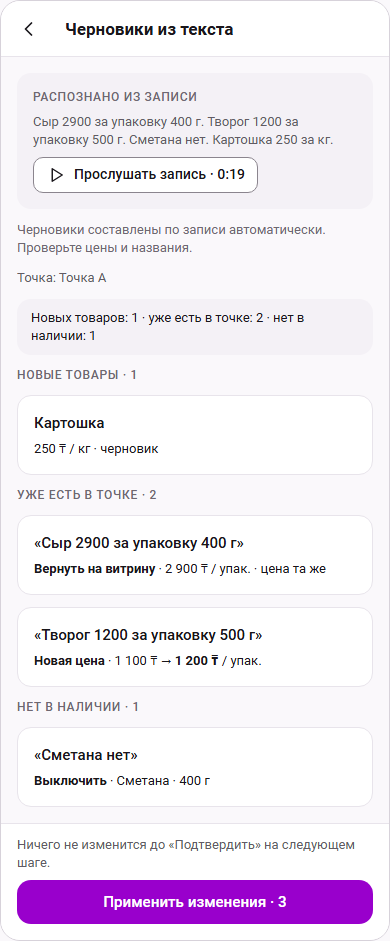
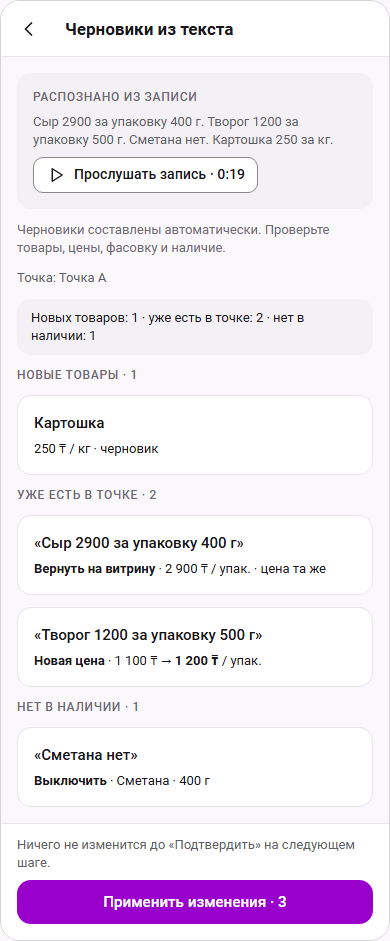
docs(seller-voice-input): PO reminder wording; CI failure kept unexplained
The draft review reminder for voice uses the PO wording (D-11). The voice
straight-to-drafts direction is confirmed by the PO; the contract is not
approved. The earlier push verify failure stays unexplained until its cause
is investigated. G-0 continues with layer A only; layer B awaits a separate
decision.

Changed region(s): [[0.0308, 0.2157, 0.8308, 0.2774]]

diff --git a/docs/slices/seller-voice-input/preview.html b/docs/slices/seller-voice-input/preview.html
@@ -499,4 +499,4 @@
 .kaida .offer-text-actions{display:flex;flex-wrap:wrap;align-items:center;column-gap:20px;row-gap:4px}
 .kaida .offer-text-action{min-width:44px;max-width:100%;flex:0 1 auto;text-decoration:none;color:var(--ink2)}
 .kaida .offer-text-action>span{min-width:0;overflow-wrap:anywhere}
-body{margin:0;padding:16px;background:#e9e5ec;font-family:Roboto,system-ui,sans-serif}.g{display:flex;gap:24px;flex-wrap:wrap;align-items:flex-start;margin-bottom:32px}.cap{font:500 14px/20px system-ui;margin:0 0 8px;max-width:420px}.kaida.kaida-app>.ph{height:auto}.kaida .body{overflow:visible}.kaida .body{min-height:0}</style><body><p class="cap"><b>DRAFT previews, rev. 3, not approved.</b> Голос сразу к черновикам. Статичные кадры, вымышленные данные, стили продавца из кода, без кода продукта. Mobile RU. Не доказательство работы. Контракт: SLICE_CONTRACT.md §4, §13, §14.</p><h2 class="cap" id="1-source">1-source: Выбор способа при включённом голосе: «Надиктовать товары» активна (узкая правка закрытого представления, §6). При <code>off</code> — прежний экран.</h2><div class="g"><div class="kaida kaida-app"><div class="ph" style="width:390px;height:auto;min-height:640px;max-width:none;margin:0;border:1px solid #d7d2da;border-radius:20px"><header class="bar"><button class="ib" aria-label="Назад"><span class="ic i-left" aria-hidden="true"></span></button><h1 class="bar-t" style="margin:0">Моя витрина</h1></header><div style="position:relative;flex:1;display:flex;flex-direction:column;justify-content:flex-end"><div class="scrim"></div><div class="sheet" role="dialog" style="position:relative;border-radius:28px 28px 0 0;margin-top:120px"><div class="grab"></div><div style="display:flex;align-items:center"><h2 class="h3" style="flex:1">Как сформировать карточки?</h2><button class="ib" aria-label="Закрыть"><span class="ic i-close" aria-hidden="true"></span></button></div><div class="banner gray" role="status" style="flex-direction:row;gap:10px;padding:12px;border-radius:14px"><span class="ic i-info c2" aria-hidden="true"></span><p class="c c2" style="flex:1">Видео и фото пока недоступны. Список товаров можно надиктовать, написать текстом или заполнить карточку вручную.</p></div><div class="ov">С помощью KAIDA AI</div><div style="display:flex;flex-direction:column"><button class="li card hl" style="padding:8px 12px;flex-direction:row"><div class="lic ai"><span class="ic i-pencil" aria-hidden="true"></span></div><div class="mid"><div class="ts">Написать списком</div><p class="c c2">Свободный текст со списком товаров</p></div><span class="ic i-right pt" aria-hidden="true"></span></button><button class="li card hl" style="padding:8px 12px;flex-direction:row;margin-top:8px"><div class="lic ai"><span class="ic i-mic" aria-hidden="true"></span></div><div class="mid"><div class="ts">Надиктовать товары</div><p class="c c2">Запись голосом до 1 минуты — сразу черновики</p></div><span class="ic i-right pt" aria-hidden="true"></span></button><button class="li" disabled style="color:var(--ink3);background:transparent;border:0"><div class="lic ai"><span class="ic i-video" aria-hidden="true"></span></div><div class="mid"><div class="ts">Снять видео</div><p class="c">Временно недоступно</p></div></button><button class="li" disabled style="color:var(--ink3);background:transparent;border:0"><div class="lic ai"><span class="ic i-image" aria-hidden="true"></span></div><div class="mid"><div class="ts">Добавить фотографии</div><p class="c">Временно недоступно</p></div></button></div><div class="hr" role="separator" style="margin:4px 0"></div><button class="li card hl" style="padding:8px 12px;flex-direction:row"><div class="lic p"><span class="ic i-pencil" aria-hidden="true"></span></div><div class="mid"><div class="ts">Заполнить вручную</div></div><span class="ic i-right pt" aria-hidden="true"></span></button></div></div></div></div></div><h2 class="cap" id="2-start">2-start: Экран «Надиктовать товары»: точка выбирается как на «Текстовом списке», подсказка, одна кнопка «Начать запись» (design gap, прошу разрешения).</h2><div class="g"><div class="kaida kaida-app"><div class="ph" style="width:390px;height:auto;min-height:640px;max-width:none;margin:0;border:1px solid #d7d2da;border-radius:20px"><header class="bar"><button class="ib" aria-label="Назад"><span class="ic i-left" aria-hidden="true"></span></button><h1 class="bar-t" style="margin:0">Надиктовать товары</h1></header><main class="body" style="gap:12px"><div class="card p16" style="gap:6px"><div class="ov">Товары добавятся в точку</div><p class="t"><b>Точка А</b> · Зелёный базар, ряд 4</p></div><div class="card p16" style="gap:8px;background:var(--sunken);border:0"><div class="ov">Называйте по очереди</div><p class="t">Товар → цена → за что цена (кг, литр, штука, упаковка) → вес или объём упаковки. Потом следующий товар.</p><p class="c c2">До 1 минуты. После «Остановить» черновики составятся сами — проверите их на следующем экране.</p></div></main><div class="foot bare"><button class="btn btn-p lg w"><span class="ic i-mic sm" aria-hidden="true"></span>Начать запись</button></div></div></div></div><h2 class="cap" id="3-recording">3-recording: Запись по AI-S06 · Recording: таймер с пределом, уровень текстом. «Остановить» сразу запускает распознавание и разбор — без экрана «Запись готова».</h2><div class="g"><div class="kaida kaida-app"><div class="ph" style="width:390px;height:auto;min-height:640px;max-width:none;margin:0;border:1px solid #d7d2da;border-radius:20px"><header class="bar"><button class="ib" aria-label="Назад"><span class="ic i-left" aria-hidden="true"></span></button><h1 class="bar-t" style="margin:0">Надиктовать товары</h1></header><main class="body" style="gap:16px;padding:16px 20px;min-height:520px"><p class="c c2">Точка А</p><div style="flex:1;display:flex;flex-direction:column;align-items:center;justify-content:center;gap:16px"><div style="display:flex;align-items:center;gap:8px" role="timer" aria-label="Идёт запись, 24 секунды из 60"><span class="recdot"></span><span class="pr-lg num">0:24</span><span class="c c2 num">/ 1:00</span></div><div class="meter" style="height:48px"><i style="height:12px"></i><i style="height:28px"></i><i style="height:40px"></i><i style="height:24px"></i><i style="height:44px"></i><i style="height:30px"></i><i style="height:18px"></i><i style="height:36px"></i><i style="height:22px"></i><i style="height:14px"></i><i style="height:26px"></i><i style="height:10px"></i></div><span class="bd bd-ok" role="status" style="align-self:center"><span class="ic i-check" aria-hidden="true"></span>Слышно хорошо</span></div></main><div class="foot bare" style="align-items:center"><button class="shutter" style="border-color:var(--ink)" aria-label="Остановить запись"><i></i></button><span class="lbl">Остановить</span><button class="btn btn-g">Отмена</button></div></div></div></div><h2 class="cap" id="4-processing">4-processing: Обработка без нажатий: распознавание, затем существующий разбор текста. «Отмена» во время разбора честно предупреждает, что черновики могли появиться (§4.3).</h2><div class="g"><div class="kaida kaida-app"><div class="ph" style="width:390px;height:auto;min-height:640px;max-width:none;margin:0;border:1px solid #d7d2da;border-radius:20px"><header class="bar"><button class="ib" aria-label="Назад"><span class="ic i-left" aria-hidden="true"></span></button><h1 class="bar-t" style="margin:0">Надиктовать товары</h1></header><main class="body" style="gap:12px"><p class="c c2">Точка А · запись 0:19</p><div class="card p16" style="gap:4px" role="status"><div style="display:flex;align-items:center;gap:12px;min-height:44px"><span class="bd bd-ok" style="flex:none"><span class="ic i-check" aria-hidden="true"></span></span><p class="t" style="color:var(--ink)">Запись готова</p></div><div style="display:flex;align-items:center;gap:12px;min-height:44px"><span aria-hidden="true" style="width:20px;height:20px;border-radius:10px;border:2px solid var(--primary);border-right-color:transparent;flex:none"></span><p class="t" style="color:var(--ink)">Распознаём запись…</p></div><div style="display:flex;align-items:center;gap:12px;min-height:44px"><span aria-hidden="true" style="width:20px;height:20px;border-radius:10px;border:2px solid var(--line);flex:none"></span><p class="t" style="color:var(--ink3)">Составляем черновики</p></div></div></main><div class="foot"><button class="btn btn-g w">Отмена</button></div></div></div></div><h2 class="cap" id="5-review">5-review: Сразу существующий экран «Черновики из текста». Новое — только блок источника «Распознано из записи», «Прослушать запись» и строка-напоминание (D-11); черновики и предложения — как для текста (упрощённо, точные карточки — в превью text-switch-on).</h2><div class="g"><div class="kaida kaida-app"><div class="ph" style="width:390px;height:auto;min-height:640px;max-width:none;margin:0;border:1px solid #d7d2da;border-radius:20px"><header class="bar"><button class="ib" aria-label="Назад"><span class="ic i-left" aria-hidden="true"></span></button><h1 class="bar-t" style="margin:0">Черновики из текста</h1></header><main class="body" style="gap:12px"><div class="card p16" style="gap:8px;background:var(--sunken);border:0"><div class="ov">Распознано из записи</div><p class="c c2" style="white-space:pre-wrap">Сыр 2900 за упаковку 400 г. Творог 1200 за упаковку 500 г. Сметана нет. Картошка 250 за кг.</p><button class="btn btn-o sm" style="align-self:flex-start"><span class="ic i-play sm" aria-hidden="true"></span>Прослушать запись · 0:19</button></div><p class="c" role="note">Черновики составлены по записи автоматически. Проверьте цены и названия.</p><p class="c c2">Точка: Точка А</p><div class="banner gray" role="status" style="padding:10px 14px;border-radius:14px"><p class="c" style="color:var(--ink)">Новых товаров: 1 · уже есть в точке: 2 · нет в наличии: 1</p></div><div class="ov">Новые товары · 1</div><article class="card p16" style="gap:6px"><div class="ts">Картошка</div><p class="c num" style="color:var(--ink)">250 ₸ / кг · черновик</p></article><div class="ov">Уже есть в точке · 2</div><article class="card p16" style="gap:6px"><div class="ts">«Сыр 2900 за упаковку 400 г»</div><p class="c" style="color:var(--ink)"><b>Вернуть на витрину</b> · 2 900 ₸ / упак. · цена та же</p></article><article class="card p16" style="gap:6px"><div class="ts">«Творог 1200 за упаковку 500 г»</div><p class="c num" style="color:var(--ink)"><b>Новая цена</b> · 1 100 ₸ → <b>1 200 ₸</b> / упак.</p></article><div class="ov">Нет в наличии · 1</div><article class="card p16" style="gap:6px"><div class="ts">«Сметана нет»</div><p class="c" style="color:var(--ink)"><b>Выключить</b> · Сметана · 400 г</p></article></main><div class="foot"><p class="c c2">Ничего не изменится до «Подтвердить» на следующем шаге.</p><button type="button" class="btn btn-p lg w">Применить изменения · 3</button></div></div></div></div><h2 class="cap" id="6-denied">6-denied: Микрофон запрещён: следствие, повторный запрос и путь текстом (адаптация AI-S04 · Microphone denied).</h2><div class="g"><div class="kaida kaida-app"><div class="ph" style="width:390px;height:auto;min-height:640px;max-width:none;margin:0;border:1px solid #d7d2da;border-radius:20px"><header class="bar"><button class="ib" aria-label="Назад"><span class="ic i-left" aria-hidden="true"></span></button><h1 class="bar-t" style="margin:0">Надиктовать товары</h1></header><main class="body" style="gap:12px"><div class="card p16" style="gap:6px"><div class="ov">Товары добавятся в точку</div><p class="t"><b>Точка А</b> · Зелёный базар, ряд 4</p></div><div class="banner warn" role="alert" style="padding:12px 14px;border-radius:14px;gap:8px"><div class="ts">Нет доступа к микрофону</div><p class="c">Надиктовать не получится. Разрешите микрофон для этого сайта в настройках браузера или напишите список текстом.</p><div style="display:flex;gap:8px;flex-wrap:wrap"><button class="btn btn-o sm">Попробовать снова</button><a class="btn btn-g sm" href="#">Написать списком</a></div></div><div class="card p16" style="gap:8px;background:var(--sunken);border:0"><div class="ov">Называйте по очереди</div><p class="t">Товар → цена → за что цена (кг, литр, штука, упаковка) → вес или объём упаковки. Потом следующий товар.</p><p class="c c2">До 1 минуты. После «Остановить» черновики составятся сами — проверите их на следующем экране.</p></div></main><div class="foot bare"><button class="btn btn-p lg w dis" disabled><span class="ic i-mic sm" aria-hidden="true"></span>Начать запись</button></div></div></div></div><h2 class="cap" id="7-silence">7-silence: Тишина или слишком короткая запись — определяется в браузере, ничего не отправляется (как AI-S04 · No audio).</h2><div class="g"><div class="kaida kaida-app"><div class="ph" style="width:390px;height:auto;min-height:640px;max-width:none;margin:0;border:1px solid #d7d2da;border-radius:20px"><header class="bar"><button class="ib" aria-label="Назад"><span class="ic i-left" aria-hidden="true"></span></button><h1 class="bar-t" style="margin:0">Надиктовать товары</h1></header><main class="body" style="gap:12px"><div class="card p16" style="gap:6px"><div class="ov">Товары добавятся в точку</div><p class="t"><b>Точка А</b> · Зелёный базар, ряд 4</p></div><div class="banner warn" role="alert" style="padding:12px 14px;border-radius:14px;gap:8px"><div class="ts">В записи не слышно речи</div><p class="c">Запишите ещё раз ближе к телефону или напишите список текстом.</p></div><div class="card p16" style="gap:8px;background:var(--sunken);border:0"><div class="ov">Называйте по очереди</div><p class="t">Товар → цена → за что цена (кг, литр, штука, упаковка) → вес или объём упаковки. Потом следующий товар.</p><p class="c c2">До 1 минуты. После «Остановить» черновики составятся сами — проверите их на следующем экране.</p></div></main><div class="foot bare"><button class="btn btn-p lg w"><span class="ic i-mic sm" aria-hidden="true"></span>Записать заново</button></div></div></div></div><h2 class="cap" id="8-stt-failed">8-stt-failed: Сбой распознавания: запись сохранена во вкладке, «Повторить» отправляет её же. Тот же блок — «Распознавание занято» и «Речь не распознана» (без «Повторить»).</h2><div class="g"><div class="kaida kaida-app"><div class="ph" style="width:390px;height:auto;min-height:640px;max-width:none;margin:0;border:1px solid #d7d2da;border-radius:20px"><header class="bar"><button class="ib" aria-label="Назад"><span class="ic i-left" aria-hidden="true"></span></button><h1 class="bar-t" style="margin:0">Надиктовать товары</h1></header><main class="body" style="gap:12px"><p class="c c2">Точка А · запись 0:19</p><div class="card p16" style="gap:4px" role="status"><div style="display:flex;align-items:center;gap:12px;min-height:44px"><span class="bd bd-ok" style="flex:none"><span class="ic i-check" aria-hidden="true"></span></span><p class="t" style="color:var(--ink)">Запись готова</p></div><div style="display:flex;align-items:center;gap:12px;min-height:44px"><span class="bd bd-err" style="flex:none"><span class="ic i-alert" aria-hidden="true"></span></span><p class="t" style="color:var(--ink)">Распознать не удалось</p></div><div style="display:flex;align-items:center;gap:12px;min-height:44px"><span aria-hidden="true" style="width:20px;height:20px;border-radius:10px;border:2px solid var(--line);flex:none"></span><p class="t" style="color:var(--ink3)">Составляем черновики</p></div></div><div class="banner err" role="alert" style="padding:12px 14px;border-radius:14px;gap:8px"><div class="ts">Не удалось распознать запись</div><p class="c">Повторите или напишите список текстом.</p><div style="display:flex;gap:8px;flex-wrap:wrap"><button class="btn btn-o sm">Повторить</button><a class="btn btn-g sm" href="#">Написать списком</a></div></div></main><div class="foot"><div style="display:flex;gap:8px"><button class="btn btn-o" style="flex:1"><span class="ic i-mic sm" aria-hidden="true"></span>Записать заново</button><button class="btn btn-g" style="color:var(--danger)">Удалить</button></div></div></div></div></div><h2 class="cap" id="9-parse-failed">9-parse-failed: Распознано, но разбор не удался: «Повторить» отправляет тот же текст с тем же requestId (без дублей). «Открыть как текст» — запасной путь только здесь.</h2><div class="g"><div class="kaida kaida-app"><div class="ph" style="width:390px;height:auto;min-height:640px;max-width:none;margin:0;border:1px solid #d7d2da;border-radius:20px"><header class="bar"><button class="ib" aria-label="Назад"><span class="ic i-left" aria-hidden="true"></span></button><h1 class="bar-t" style="margin:0">Надиктовать товары</h1></header><main class="body" style="gap:12px"><p class="c c2">Точка А · запись 0:19</p><div class="card p16" style="gap:4px" role="status"><div style="display:flex;align-items:center;gap:12px;min-height:44px"><span class="bd bd-ok" style="flex:none"><span class="ic i-check" aria-hidden="true"></span></span><p class="t" style="color:var(--ink)">Запись готова</p></div><div style="display:flex;align-items:center;gap:12px;min-height:44px"><span class="bd bd-ok" style="flex:none"><span class="ic i-check" aria-hidden="true"></span></span><p class="t" style="color:var(--ink)">Запись распознана</p></div><div style="display:flex;align-items:center;gap:12px;min-height:44px"><span class="bd bd-err" style="flex:none"><span class="ic i-alert" aria-hidden="true"></span></span><p class="t" style="color:var(--ink)">Черновики составить не удалось</p></div></div><div class="banner err" role="alert" style="padding:12px 14px;border-radius:14px;gap:8px"><div class="ts">Запись распознана, но черновики составить не удалось</div><p class="c">Повторите через минуту или откройте текст и разберите его вручную.</p><div style="display:flex;gap:8px;flex-wrap:wrap"><button class="btn btn-o sm">Повторить</button><a class="btn btn-g sm" href="#">Открыть как текст</a></div></div></main><div class="foot"><button class="btn btn-g w" style="color:var(--danger)">Удалить запись</button></div></div></div></div><h2 class="cap" id="10-interrupted">10-interrupted: Прерывание звонком: записанное сохранено, обработка сама не начинается (не обычный путь, §4.2). Автостоп на 1:00 — наоборот, сразу переходит к обработке.</h2><div class="g"><div class="kaida kaida-app"><div class="ph" style="width:390px;height:auto;min-height:640px;max-width:none;margin:0;border:1px solid #d7d2da;border-radius:20px"><header class="bar"><button class="ib" aria-label="Назад"><span class="ic i-left" aria-hidden="true"></span></button><h1 class="bar-t" style="margin:0">Надиктовать товары</h1></header><main class="body" style="gap:12px"><div class="card p16" style="gap:6px"><div class="ov">Товары добавятся в точку</div><p class="t"><b>Точка А</b> · Зелёный базар, ряд 4</p></div><div class="banner info" role="status" style="padding:12px 14px;border-radius:14px;gap:8px"><div class="ts">Запись остановлена</div><p class="c">Запись прервал звонок. Первые 0:52 сохранены — можно разобрать их или записать заново.</p></div><div class="card p16" style="gap:8px;background:var(--sunken);border:0"><div class="ov">Называйте по очереди</div><p class="t">Товар → цена → за что цена (кг, литр, штука, упаковка) → вес или объём упаковки. Потом следующий товар.</p><p class="c c2">До 1 минуты. После «Остановить» черновики составятся сами — проверите их на следующем экране.</p></div></main><div class="foot"><button class="btn btn-p lg w">Разобрать запись</button><button class="btn btn-o w"><span class="ic i-mic sm" aria-hidden="true"></span>Записать заново</button></div></div></div></div><h2 class="cap" id="11-leave">11-leave: Назад во время записи: подтверждение удаления (D-5; диалог допустим как подтверждение деструктивного действия, §18.4).</h2><div class="g"><div class="kaida kaida-app"><div class="ph" style="width:390px;height:auto;min-height:640px;max-width:none;margin:0;border:1px solid #d7d2da;border-radius:20px"><header class="bar"><button class="ib" aria-label="Назад"><span class="ic i-left" aria-hidden="true"></span></button><h1 class="bar-t" style="margin:0">Надиктовать товары</h1></header><div style="position:relative;flex:1;display:flex;flex-direction:column;justify-content:flex-end"><div class="scrim"></div><div class="sheet" role="alertdialog" style="position:relative;border-radius:28px 28px 0 0;margin-top:300px"><div class="grab"></div><h2 class="h3">Удалить запись и выйти?</h2><p class="t c2">Запись хранится, только пока открыт этот экран.</p><button class="btn btn-d lg w">Удалить и выйти</button><button class="btn btn-g w">Остаться</button></div></div></div></div></div></body></html>
+body{margin:0;padding:16px;background:#e9e5ec;font-family:Roboto,system-ui,sans-serif}.g{display:flex;gap:24px;flex-wrap:wrap;align-items:flex-start;margin-bottom:32px}.cap{font:500 14px/20px system-ui;margin:0 0 8px;max-width:420px}.kaida.kaida-app>.ph{height:auto}.kaida .body{overflow:visible}.kaida .body{min-height:0}</style><body><p class="cap"><b>DRAFT previews, rev. 3, not approved.</b> Голос сразу к черновикам. Статичные кадры, вымышленные данные, стили продавца из кода, без кода продукта. Mobile RU. Не доказательство работы. Контракт: SLICE_CONTRACT.md §4, §13, §14.</p><h2 class="cap" id="1-source">1-source: Выбор способа при включённом голосе: «Надиктовать товары» активна (узкая правка закрытого представления, §6). При <code>off</code> — прежний экран.</h2><div class="g"><div class="kaida kaida-app"><div class="ph" style="width:390px;height:auto;min-height:640px;max-width:none;margin:0;border:1px solid #d7d2da;border-radius:20px"><header class="bar"><button class="ib" aria-label="Назад"><span class="ic i-left" aria-hidden="true"></span></button><h1 class="bar-t" style="margin:0">Моя витрина</h1></header><div style="position:relative;flex:1;display:flex;flex-direction:column;justify-content:flex-end"><div class="scrim"></div><div class="sheet" role="dialog" style="position:relative;border-radius:28px 28px 0 0;margin-top:120px"><div class="grab"></div><div style="display:flex;align-items:center"><h2 class="h3" style="flex:1">Как сформировать карточки?</h2><button class="ib" aria-label="Закрыть"><span class="ic i-close" aria-hidden="true"></span></button></div><div class="banner gray" role="status" style="flex-direction:row;gap:10px;padding:12px;border-radius:14px"><span class="ic i-info c2" aria-hidden="true"></span><p class="c c2" style="flex:1">Видео и фото пока недоступны. Список товаров можно надиктовать, написать текстом или заполнить карточку вручную.</p></div><div class="ov">С помощью KAIDA AI</div><div style="display:flex;flex-direction:column"><button class="li card hl" style="padding:8px 12px;flex-direction:row"><div class="lic ai"><span class="ic i-pencil" aria-hidden="true"></span></div><div class="mid"><div class="ts">Написать списком</div><p class="c c2">Свободный текст со списком товаров</p></div><span class="ic i-right pt" aria-hidden="true"></span></button><button class="li card hl" style="padding:8px 12px;flex-direction:row;margin-top:8px"><div class="lic ai"><span class="ic i-mic" aria-hidden="true"></span></div><div class="mid"><div class="ts">Надиктовать товары</div><p class="c c2">Запись голосом до 1 минуты — сразу черновики</p></div><span class="ic i-right pt" aria-hidden="true"></span></button><button class="li" disabled style="color:var(--ink3);background:transparent;border:0"><div class="lic ai"><span class="ic i-video" aria-hidden="true"></span></div><div class="mid"><div class="ts">Снять видео</div><p class="c">Временно недоступно</p></div></button><button class="li" disabled style="color:var(--ink3);background:transparent;border:0"><div class="lic ai"><span class="ic i-image" aria-hidden="true"></span></div><div class="mid"><div class="ts">Добавить фотографии</div><p class="c">Временно недоступно</p></div></button></div><div class="hr" role="separator" style="margin:4px 0"></div><button class="li card hl" style="padding:8px 12px;flex-direction:row"><div class="lic p"><span class="ic i-pencil" aria-hidden="true"></span></div><div class="mid"><div class="ts">Заполнить вручную</div></div><span class="ic i-right pt" aria-hidden="true"></span></button></div></div></div></div></div><h2 class="cap" id="2-start">2-start: Экран «Надиктовать товары»: точка выбирается как на «Текстовом списке», подсказка, одна кнопка «Начать запись» (design gap, прошу разрешения).</h2><div class="g"><div class="kaida kaida-app"><div class="ph" style="width:390px;height:auto;min-height:640px;max-width:none;margin:0;border:1px solid #d7d2da;border-radius:20px"><header class="bar"><button class="ib" aria-label="Назад"><span class="ic i-left" aria-hidden="true"></span></button><h1 class="bar-t" style="margin:0">Надиктовать товары</h1></header><main class="body" style="gap:12px"><div class="card p16" style="gap:6px"><div class="ov">Товары добавятся в точку</div><p class="t"><b>Точка А</b> · Зелёный базар, ряд 4</p></div><div class="card p16" style="gap:8px;background:var(--sunken);border:0"><div class="ov">Называйте по очереди</div><p class="t">Товар → цена → за что цена (кг, литр, штука, упаковка) → вес или объём упаковки. Потом следующий товар.</p><p class="c c2">До 1 минуты. После «Остановить» черновики составятся сами — проверите их на следующем экране.</p></div></main><div class="foot bare"><button class="btn btn-p lg w"><span class="ic i-mic sm" aria-hidden="true"></span>Начать запись</button></div></div></div></div><h2 class="cap" id="3-recording">3-recording: Запись по AI-S06 · Recording: таймер с пределом, уровень текстом. «Остановить» сразу запускает распознавание и разбор — без экрана «Запись готова».</h2><div class="g"><div class="kaida kaida-app"><div class="ph" style="width:390px;height:auto;min-height:640px;max-width:none;margin:0;border:1px solid #d7d2da;border-radius:20px"><header class="bar"><button class="ib" aria-label="Назад"><span class="ic i-left" aria-hidden="true"></span></button><h1 class="bar-t" style="margin:0">Надиктовать товары</h1></header><main class="body" style="gap:16px;padding:16px 20px;min-height:520px"><p class="c c2">Точка А</p><div style="flex:1;display:flex;flex-direction:column;align-items:center;justify-content:center;gap:16px"><div style="display:flex;align-items:center;gap:8px" role="timer" aria-label="Идёт запись, 24 секунды из 60"><span class="recdot"></span><span class="pr-lg num">0:24</span><span class="c c2 num">/ 1:00</span></div><div class="meter" style="height:48px"><i style="height:12px"></i><i style="height:28px"></i><i style="height:40px"></i><i style="height:24px"></i><i style="height:44px"></i><i style="height:30px"></i><i style="height:18px"></i><i style="height:36px"></i><i style="height:22px"></i><i style="height:14px"></i><i style="height:26px"></i><i style="height:10px"></i></div><span class="bd bd-ok" role="status" style="align-self:center"><span class="ic i-check" aria-hidden="true"></span>Слышно хорошо</span></div></main><div class="foot bare" style="align-items:center"><button class="shutter" style="border-color:var(--ink)" aria-label="Остановить запись"><i></i></button><span class="lbl">Остановить</span><button class="btn btn-g">Отмена</button></div></div></div></div><h2 class="cap" id="4-processing">4-processing: Обработка без нажатий: распознавание, затем существующий разбор текста. «Отмена» во время разбора честно предупреждает, что черновики могли появиться (§4.3).</h2><div class="g"><div class="kaida kaida-app"><div class="ph" style="width:390px;height:auto;min-height:640px;max-width:none;margin:0;border:1px solid #d7d2da;border-radius:20px"><header class="bar"><button class="ib" aria-label="Назад"><span class="ic i-left" aria-hidden="true"></span></button><h1 class="bar-t" style="margin:0">Надиктовать товары</h1></header><main class="body" style="gap:12px"><p class="c c2">Точка А · запись 0:19</p><div class="card p16" style="gap:4px" role="status"><div style="display:flex;align-items:center;gap:12px;min-height:44px"><span class="bd bd-ok" style="flex:none"><span class="ic i-check" aria-hidden="true"></span></span><p class="t" style="color:var(--ink)">Запись готова</p></div><div style="display:flex;align-items:center;gap:12px;min-height:44px"><span aria-hidden="true" style="width:20px;height:20px;border-radius:10px;border:2px solid var(--primary);border-right-color:transparent;flex:none"></span><p class="t" style="color:var(--ink)">Распознаём запись…</p></div><div style="display:flex;align-items:center;gap:12px;min-height:44px"><span aria-hidden="true" style="width:20px;height:20px;border-radius:10px;border:2px solid var(--line);flex:none"></span><p class="t" style="color:var(--ink3)">Составляем черновики</p></div></div></main><div class="foot"><button class="btn btn-g w">Отмена</button></div></div></div></div><h2 class="cap" id="5-review">5-review: Сразу существующий экран «Черновики из текста». Новое — только блок источника «Распознано из записи», «Прослушать запись» и строка-напоминание (текст решён PO, D-11); черновики и предложения — как для текста (упрощённо, точные карточки — в превью text-switch-on).</h2><div class="g"><div class="kaida kaida-app"><div class="ph" style="width:390px;height:auto;min-height:640px;max-width:none;margin:0;border:1px solid #d7d2da;border-radius:20px"><header class="bar"><button class="ib" aria-label="Назад"><span class="ic i-left" aria-hidden="true"></span></button><h1 class="bar-t" style="margin:0">Черновики из текста</h1></header><main class="body" style="gap:12px"><div class="card p16" style="gap:8px;background:var(--sunken);border:0"><div class="ov">Распознано из записи</div><p class="c c2" style="white-space:pre-wrap">Сыр 2900 за упаковку 400 г. Творог 1200 за упаковку 500 г. Сметана нет. Картошка 250 за кг.</p><button class="btn btn-o sm" style="align-self:flex-start"><span class="ic i-play sm" aria-hidden="true"></span>Прослушать запись · 0:19</button></div><p class="c" role="note">Черновики составлены автоматически. Проверьте товары, цены, фасовку и наличие.</p><p class="c c2">Точка: Точка А</p><div class="banner gray" role="status" style="padding:10px 14px;border-radius:14px"><p class="c" style="color:var(--ink)">Новых товаров: 1 · уже есть в точке: 2 · нет в наличии: 1</p></div><div class="ov">Новые товары · 1</div><article class="card p16" style="gap:6px"><div class="ts">Картошка</div><p class="c num" style="color:var(--ink)">250 ₸ / кг · черновик</p></article><div class="ov">Уже есть в точке · 2</div><article class="card p16" style="gap:6px"><div class="ts">«Сыр 2900 за упаковку 400 г»</div><p class="c" style="color:var(--ink)"><b>Вернуть на витрину</b> · 2 900 ₸ / упак. · цена та же</p></article><article class="card p16" style="gap:6px"><div class="ts">«Творог 1200 за упаковку 500 г»</div><p class="c num" style="color:var(--ink)"><b>Новая цена</b> · 1 100 ₸ → <b>1 200 ₸</b> / упак.</p></article><div class="ov">Нет в наличии · 1</div><article class="card p16" style="gap:6px"><div class="ts">«Сметана нет»</div><p class="c" style="color:var(--ink)"><b>Выключить</b> · Сметана · 400 г</p></article></main><div class="foot"><p class="c c2">Ничего не изменится до «Подтвердить» на следующем шаге.</p><button type="button" class="btn btn-p lg w">Применить изменения · 3</button></div></div></div></div><h2 class="cap" id="6-denied">6-denied: Микрофон запрещён: следствие, повторный запрос и путь текстом (адаптация AI-S04 · Microphone denied).</h2><div class="g"><div class="kaida kaida-app"><div class="ph" style="width:390px;height:auto;min-height:640px;max-width:none;margin:0;border:1px solid #d7d2da;border-radius:20px"><header class="bar"><button class="ib" aria-label="Назад"><span class="ic i-left" aria-hidden="true"></span></button><h1 class="bar-t" style="margin:0">Надиктовать товары</h1></header><main class="body" style="gap:12px"><div class="card p16" style="gap:6px"><div class="ov">Товары добавятся в точку</div><p class="t"><b>Точка А</b> · Зелёный базар, ряд 4</p></div><div class="banner warn" role="alert" style="padding:12px 14px;border-radius:14px;gap:8px"><div class="ts">Нет доступа к микрофону</div><p class="c">Надиктовать не получится. Разрешите микрофон для этого сайта в настройках браузера или напишите список текстом.</p><div style="display:flex;gap:8px;flex-wrap:wrap"><button class="btn btn-o sm">Попробовать снова</button><a class="btn btn-g sm" href="#">Написать списком</a></div></div><div class="card p16" style="gap:8px;background:var(--sunken);border:0"><div class="ov">Называйте по очереди</div><p class="t">Товар → цена → за что цена (кг, литр, штука, упаковка) → вес или объём упаковки. Потом следующий товар.</p><p class="c c2">До 1 минуты. После «Остановить» черновики составятся сами — проверите их на следующем экране.</p></div></main><div class="foot bare"><button class="btn btn-p lg w dis" disabled><span class="ic i-mic sm" aria-hidden="true"></span>Начать запись</button></div></div></div></div><h2 class="cap" id="7-silence">7-silence: Тишина или слишком короткая запись — определяется в браузере, ничего не отправляется (как AI-S04 · No audio).</h2><div class="g"><div class="kaida kaida-app"><div class="ph" style="width:390px;height:auto;min-height:640px;max-width:none;margin:0;border:1px solid #d7d2da;border-radius:20px"><header class="bar"><button class="ib" aria-label="Назад"><span class="ic i-left" aria-hidden="true"></span></button><h1 class="bar-t" style="margin:0">Надиктовать товары</h1></header><main class="body" style="gap:12px"><div class="card p16" style="gap:6px"><div class="ov">Товары добавятся в точку</div><p class="t"><b>Точка А</b> · Зелёный базар, ряд 4</p></div><div class="banner warn" role="alert" style="padding:12px 14px;border-radius:14px;gap:8px"><div class="ts">В записи не слышно речи</div><p class="c">Запишите ещё раз ближе к телефону или напишите список текстом.</p></div><div class="card p16" style="gap:8px;background:var(--sunken);border:0"><div class="ov">Называйте по очереди</div><p class="t">Товар → цена → за что цена (кг, литр, штука, упаковка) → вес или объём упаковки. Потом следующий товар.</p><p class="c c2">До 1 минуты. После «Остановить» черновики составятся сами — проверите их на следующем экране.</p></div></main><div class="foot bare"><button class="btn btn-p lg w"><span class="ic i-mic sm" aria-hidden="true"></span>Записать заново</button></div></div></div></div><h2 class="cap" id="8-stt-failed">8-stt-failed: Сбой распознавания: запись сохранена во вкладке, «Повторить» отправляет её же. Тот же блок — «Распознавание занято» и «Речь не распознана» (без «Повторить»).</h2><div class="g"><div class="kaida kaida-app"><div class="ph" style="width:390px;height:auto;min-height:640px;max-width:none;margin:0;border:1px solid #d7d2da;border-radius:20px"><header class="bar"><button class="ib" aria-label="Назад"><span class="ic i-left" aria-hidden="true"></span></button><h1 class="bar-t" style="margin:0">Надиктовать товары</h1></header><main class="body" style="gap:12px"><p class="c c2">Точка А · запись 0:19</p><div class="card p16" style="gap:4px" role="status"><div style="display:flex;align-items:center;gap:12px;min-height:44px"><span class="bd bd-ok" style="flex:none"><span class="ic i-check" aria-hidden="true"></span></span><p class="t" style="color:var(--ink)">Запись готова</p></div><div style="display:flex;align-items:center;gap:12px;min-height:44px"><span class="bd bd-err" style="flex:none"><span class="ic i-alert" aria-hidden="true"></span></span><p class="t" style="color:var(--ink)">Распознать не удалось</p></div><div style="display:flex;align-items:center;gap:12px;min-height:44px"><span aria-hidden="true" style="width:20px;height:20px;border-radius:10px;border:2px solid var(--line);flex:none"></span><p class="t" style="color:var(--ink3)">Составляем черновики</p></div></div><div class="banner err" role="alert" style="padding:12px 14px;border-radius:14px;gap:8px"><div class="ts">Не удалось распознать запись</div><p class="c">Повторите или напишите список текстом.</p><div style="display:flex;gap:8px;flex-wrap:wrap"><button class="btn btn-o sm">Повторить</button><a class="btn btn-g sm" href="#">Написать списком</a></div></div></main><div class="foot"><div style="display:flex;gap:8px"><button class="btn btn-o" style="flex:1"><span class="ic i-mic sm" aria-hidden="true"></span>Записать заново</button><button class="btn btn-g" style="color:var(--danger)">Удалить</button></div></div></div></div></div><h2 class="cap" id="9-parse-failed">9-parse-failed: Распознано, но разбор не удался: «Повторить» отправляет тот же текст с тем же requestId (без дублей). «Открыть как текст» — запасной путь только здесь.</h2><div class="g"><div class="kaida kaida-app"><div class="ph" style="width:390px;height:auto;min-height:640px;max-width:none;margin:0;border:1px solid #d7d2da;border-radius:20px"><header class="bar"><button class="ib" aria-label="Назад"><span class="ic i-left" aria-hidden="true"></span></button><h1 class="bar-t" style="margin:0">Надиктовать товары</h1></header><main class="body" style="gap:12px"><p class="c c2">Точка А · запись 0:19</p><div class="card p16" style="gap:4px" role="status"><div style="display:flex;align-items:center;gap:12px;min-height:44px"><span class="bd bd-ok" style="flex:none"><span class="ic i-check" aria-hidden="true"></span></span><p class="t" style="color:var(--ink)">Запись готова</p></div><div style="display:flex;align-items:center;gap:12px;min-height:44px"><span class="bd bd-ok" style="flex:none"><span class="ic i-check" aria-hidden="true"></span></span><p class="t" style="color:var(--ink)">Запись распознана</p></div><div style="display:flex;align-items:center;gap:12px;min-height:44px"><span class="bd bd-err" style="flex:none"><span class="ic i-alert" aria-hidden="true"></span></span><p class="t" style="color:var(--ink)">Черновики составить не удалось</p></div></div><div class="banner err" role="alert" style="padding:12px 14px;border-radius:14px;gap:8px"><div class="ts">Запись распознана, но черновики составить не удалось</div><p class="c">Повторите через минуту или откройте текст и разберите его вручную.</p><div style="display:flex;gap:8px;flex-wrap:wrap"><button class="btn btn-o sm">Повторить</button><a class="btn btn-g sm" href="#">Открыть как текст</a></div></div></main><div class="foot"><button class="btn btn-g w" style="color:var(--danger)">Удалить запись</button></div></div></div></div><h2 class="cap" id="10-interrupted">10-interrupted: Прерывание звонком: записанное сохранено, обработка сама не начинается (не обычный путь, §4.2). Автостоп на 1:00 — наоборот, сразу переходит к обработке.</h2><div class="g"><div class="kaida kaida-app"><div class="ph" style="width:390px;height:auto;min-height:640px;max-width:none;margin:0;border:1px solid #d7d2da;border-radius:20px"><header class="bar"><button class="ib" aria-label="Назад"><span class="ic i-left" aria-hidden="true"></span></button><h1 class="bar-t" style="margin:0">Надиктовать товары</h1></header><main class="body" style="gap:12px"><div class="card p16" style="gap:6px"><div class="ov">Товары добавятся в точку</div><p class="t"><b>Точка А</b> · Зелёный базар, ряд 4</p></div><div class="banner info" role="status" style="padding:12px 14px;border-radius:14px;gap:8px"><div class="ts">Запись остановлена</div><p class="c">Запись прервал звонок. Первые 0:52 сохранены — можно разобрать их или записать заново.</p></div><div class="card p16" style="gap:8px;background:var(--sunken);border:0"><div class="ov">Называйте по очереди</div><p class="t">Товар → цена → за что цена (кг, литр, штука, упаковка) → вес или объём упаковки. Потом следующий товар.</p><p class="c c2">До 1 минуты. После «Остановить» черновики составятся сами — проверите их на следующем экране.</p></div></main><div class="foot"><button class="btn btn-p lg w">Разобрать запись</button><button class="btn btn-o w"><span class="ic i-mic sm" aria-hidden="true"></span>Записать заново</button></div></div></div></div><h2 class="cap" id="11-leave">11-leave: Назад во время записи: подтверждение удаления (D-5; диалог допустим как подтверждение деструктивного действия, §18.4).</h2><div class="g"><div class="kaida kaida-app"><div class="ph" style="width:390px;height:auto;min-height:640px;max-width:none;margin:0;border:1px solid #d7d2da;border-radius:20px"><header class="bar"><button class="ib" aria-label="Назад"><span class="ic i-left" aria-hidden="true"></span></button><h1 class="bar-t" style="margin:0">Надиктовать товары</h1></header><div style="position:relative;flex:1;display:flex;flex-direction:column;justify-content:flex-end"><div class="scrim"></div><div class="sheet" role="alertdialog" style="position:relative;border-radius:28px 28px 0 0;margin-top:300px"><div class="grab"></div><h2 class="h3">Удалить запись и выйти?</h2><p class="t c2">Запись хранится, только пока открыт этот экран.</p><button class="btn btn-d lg w">Удалить и выйти</button><button class="btn btn-g w">Остаться</button></div></div></div></div></div></body></html>

diff --git a/docs/slices/seller-voice-input/SLICE_CONTRACT.md b/docs/slices/seller-voice-input/SLICE_CONTRACT.md
@@ -74,7 +74,7 @@
    существующий `POST /api/seller/text-input` (`text`, `requestId`, `locationId` выбранной точки) — тот же запрос, что
    и при наборе. Расшифровка продавцу перед разбором не показывается и не редактируется.
 5. Переход на существующий экран «Черновики из текста». Там, где сегодня показан исходный текст, — распознанный текст с
-   пометкой «Распознано из записи» и строка «Черновики составлены по записи автоматически. Проверьте цены и названия».
+   пометкой «Распознано из записи» и строка «Черновики составлены автоматически. Проверьте товары, цены, фасовку и наличие».
    Пока запись в памяти вкладки, рядом «Прослушать запись». Всё остальное на экране — без изменений.
 6. Продавец правит черновики и выбирает предложения как сегодня; изменения карточек — только после «Подтвердить».
 
@@ -290,7 +290,7 @@ production build приложения, отдельная одноразовая
 | --- | --- | --- |
 | Экран «Надиктовать товары» с выбором точки и «Начать запись» | частично (AI-S06 без точки) | Прошу разрешения сделать по превью (кадр 2). |
 | Экран обработки «Распознаём запись» → «Составляем черновики» | нет (в F3 — фоновая обработка с push) | Разрешение по превью (кадр 4). |
-| Пометка «Распознано из записи», напоминание и «Прослушать запись» на экране черновиков | нет | Разрешение по превью (кадр 5); текст — D-11. |
+| Пометка «Распознано из записи», напоминание и «Прослушать запись» на экране черновиков | нет | Разрешение по превью (кадр 5); текст напоминания решён (D-11). |
 | Сбой разбора после распознавания с «Открыть как текст» | нет | Разрешение по превью (кадр 9). |
 | Прерывание без автоматической обработки | шаблон AI-S04 · Interrupted для видео | Разрешение адаптировать (кадр 10). |
 | Запрет микрофона, тишина, сбой распознавания | шаблоны AI-S04 для видео | Разрешение адаптировать (кадры 6–8). |
@@ -310,8 +310,8 @@ production build приложения, отдельная одноразовая
 - **D-10. Среда разборщика для слоя B:** запустить временный Modal T4 под учётной записью PO и отправить туда
   **только текст** расшифровок и эталонов; или указать другую среду. Без этого слой B не выполняется, отчёт будет
   только по слою A.
-- **D-11. Тексты на экране черновиков для голоса:** «Распознано из записи» и «Черновики составлены по записи
-  автоматически. Проверьте цены и названия».
+- **D-11. Напоминание на экране черновиков** — решено PO 2026-11-03: «Черновики составлены автоматически. Проверьте товары, цены, фасовку и наличие.» Подпись
+  источника «Распознано из записи» — по превью (design gap §13).
 - **Закрытые контракты (§6):** утвердить изменение источника текста для real-parser и представления экранов.
 
 ## 15. После этого slice (не утверждённая очередь)

diff --git a/docs/agents/CURRENT_STATE.md b/docs/agents/CURRENT_STATE.md
@@ -5,9 +5,9 @@
 - G-0 stage 1 (approved 2026-11-03, exploratory): local workspace `C:\dev\KAIDA-voice-g0\` (outside Git) — whisper.cpp b5454 binaries identical to the 2026-10-09 run, base and small checksums verified, small downloaded; conversion (PyAV 15.1.0, research venv) and bench scripts ready. Blockers: PO recordings R1–R5/S0 not yet made; only ≈ 100 MB RAM available (small needs ≈ 2 GiB); layer B needs D-10 (parser environment). Recordings are kept until PO reviews the report.
 - Contract rev. 3: voice goes straight to drafts (PO 2026-11-03): record → stop → transcribe → existing text parser → existing review → confirm; affected closed contracts listed in §6.
 - Current task: PO review of the **seller voice input** contract DRAFT rev. 3 (`docs/slices/seller-voice-input/SLICE_CONTRACT.md`, preview, screenshots, G-0 recording instructions `docs/research/voice-input/g0-live-ru/RECORDING_INSTRUCTIONS.md`), branch `docs/seller-voice-input-contract`, draft PR #205 (keep draft). No voice implementation, production AI, infrastructure purchase, live-audio collection or real audio sent to external services.
-- Last completed: rev. 3 contract and preview (voice straight to drafts; G-0 layer A transcription + layer B voice-to-drafts through the existing real parser on an isolated stand, nothing confirmed); G-0 environment prepared. PR #205 push verify 41526297466 failed in `search-typo-correction.spec.ts:100` (kk vs ru offer ids differ, 337 other E2E passed); PR verify on the same SHA green; docs-only diff. Future CI failures: inspect the actual assertion and data before calling it the known flake.
+- Last completed: rev. 3 contract and preview (voice straight to drafts; G-0 layer A transcription + layer B voice-to-drafts through the existing real parser on an isolated stand, nothing confirmed); G-0 environment prepared. PR #205 push verify 41526297466 failed in `search-typo-correction.spec.ts:141` (kk search returned different offer ids than ru; 337 other E2E passed): **cause unexplained** — a green run on the same SHA and a docs-only diff do not establish the cause; not classified as O-CI-FLAKE-TYPO until investigated. Future CI failures: inspect the actual assertion and data before calling it the known flake.
 - Closure PR #203 (docs-only, checks green) still open: the agent's `gh pr merge` is refused by the auto-mode classifier as «Merge Without Review»; PO merges on GitHub.
-- Next action: PO records R1–R5/S0 per `docs/research/voice-input/g0-live-ru/RECORDING_INSTRUCTIONS.md`, frees ≈ 2 GiB RAM and decides D-10; agent then runs layer A (and layer B if D-10) and writes REPORT.md with a stage-2 recommendation. Stage 2, implementation and remaining decisions wait for PO.
+- Next action: wait for PO recordings R1–R5/S0 in `C:\dev\KAIDA-voice-g0\audio\` and ≥ 2 GiB available memory (the agent does not close applications); then run layer A only (base vs small) and report transcripts, accuracy, latency, memory and a layer-B recommendation. Modal/layer B not deployed until a separate PO decision. Direction «voice straight to drafts» confirmed by PO; contract not approved; PR #205 stays draft.
 - Runtime boundaries unchanged: production seller text input `off`; no real-user launch, purchases, paid infrastructure, new AI processing or notification delivery. KK copy provisional. Buyer decisions of PR #202 are not scheduled for implementation.
 - Known limitations of S-TEXT-SWITCH-ON (contract §12, ACCEPTANCE.md): no pre-selection after stale/refused proposal; fake parser takes the first number as price except explicit fixtures; live-model quality by replay only.
 - Dirty primary checkout `C:\dev\KAIDA.KZ-2.0` stays on `slice/text-switch-on` @ `426f091c` with another session's uncommitted edits (`CURRENT_STATE.md`, three E2E specs, temporary `tsconfig.json` / `next-env.d.ts`, untracked `ACCEPTANCE.md`) and personal files. Do not reset, clean, stash or commit them. Closure and contract work run in separate worktrees under `C:\dev\`.
